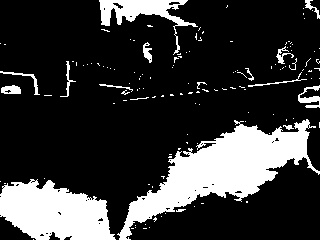
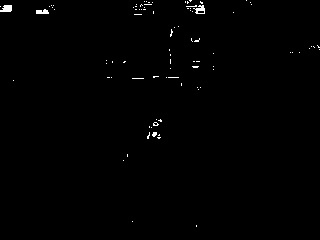
update

diff --git a/robot.py b/robot.py
@@ -35,8 +35,8 @@ class Robot(BrickPiInterface):
         return 
     def medic_package(self):
         data = {}
-        self.ROBOT.spin_medium_motor(-555)
-        self.ROBOT.spin_medium_motor(-555)
+        self.spin_medium_motor(-555)
+        self.spin_medium_motor(-555)
         return
 
     def turn90_robot(self):
@@ -97,7 +97,7 @@ class Robot(BrickPiInterface):
             danger = False
             colour = self.get_colour_sensor()
             print(str(distance_from_start))
-            if colour != 'White' and fully_explored == False: #this can stop an error later in the code
+            if colour != 'White': #this can stop an error later in the code
                 print('danger')
                 danger = True
             if fully_explored == False:
@@ -143,7 +143,7 @@ class Robot(BrickPiInterface):
                                         unexplored_openings += 1
                                 else:
                                     location = immediate_area[direction]
-                                    if known_area[location] == 'completely_explored':
+                                    if known_area[location] == 'completely_explored' or known_area[location] == 'danger':
                                         openings -= 1
                                 openings += 1
                             else:

diff --git a/interfaces/camerainterface.py b/interfaces/camerainterface.py
@@ -77,7 +77,7 @@ class CameraInterface(object):
         green_high_color = (90,255,150)
 
         yellow_low_color = (0,100,104)
-        yellow_high_color = (150,255,255)
+        yellow_high_color = (100,255,255)
 
         # threshold
         redthresh = cv2.inRange(img, redlowcolor, redhighcolor)
